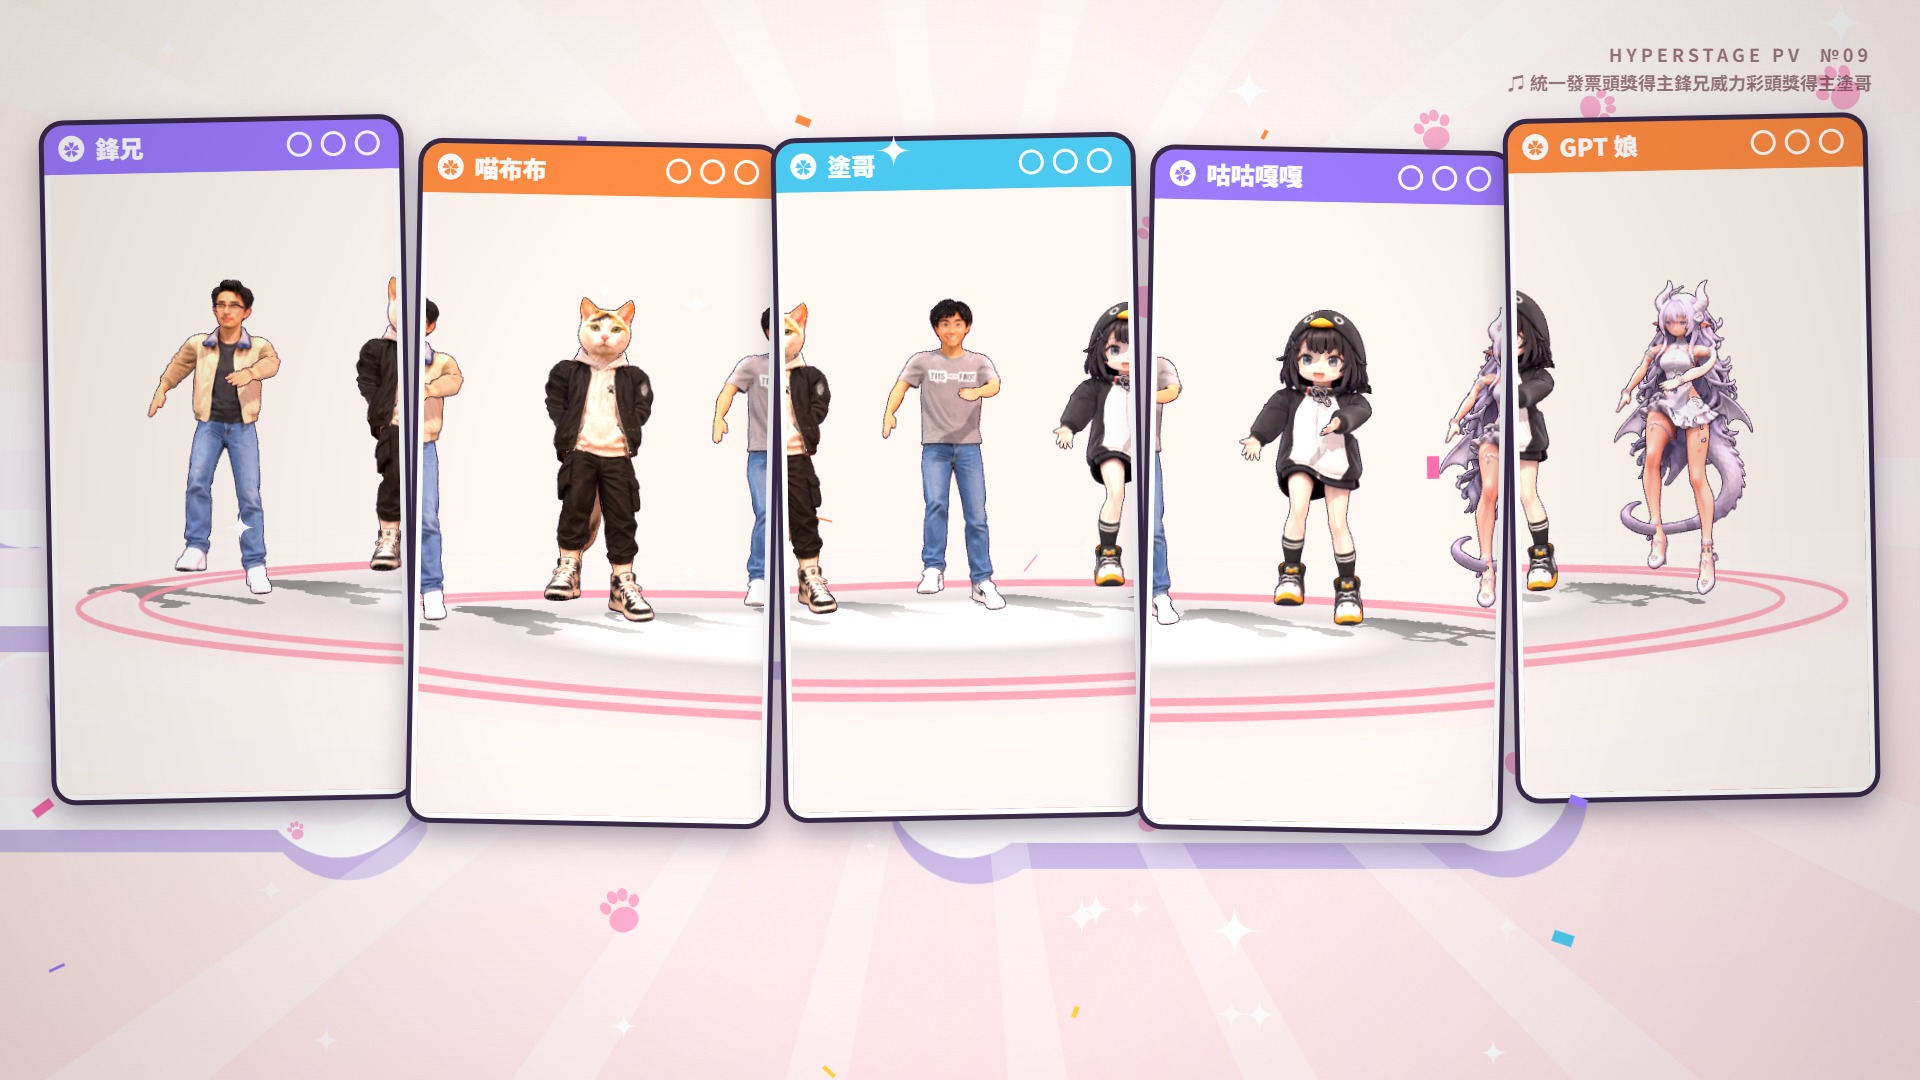
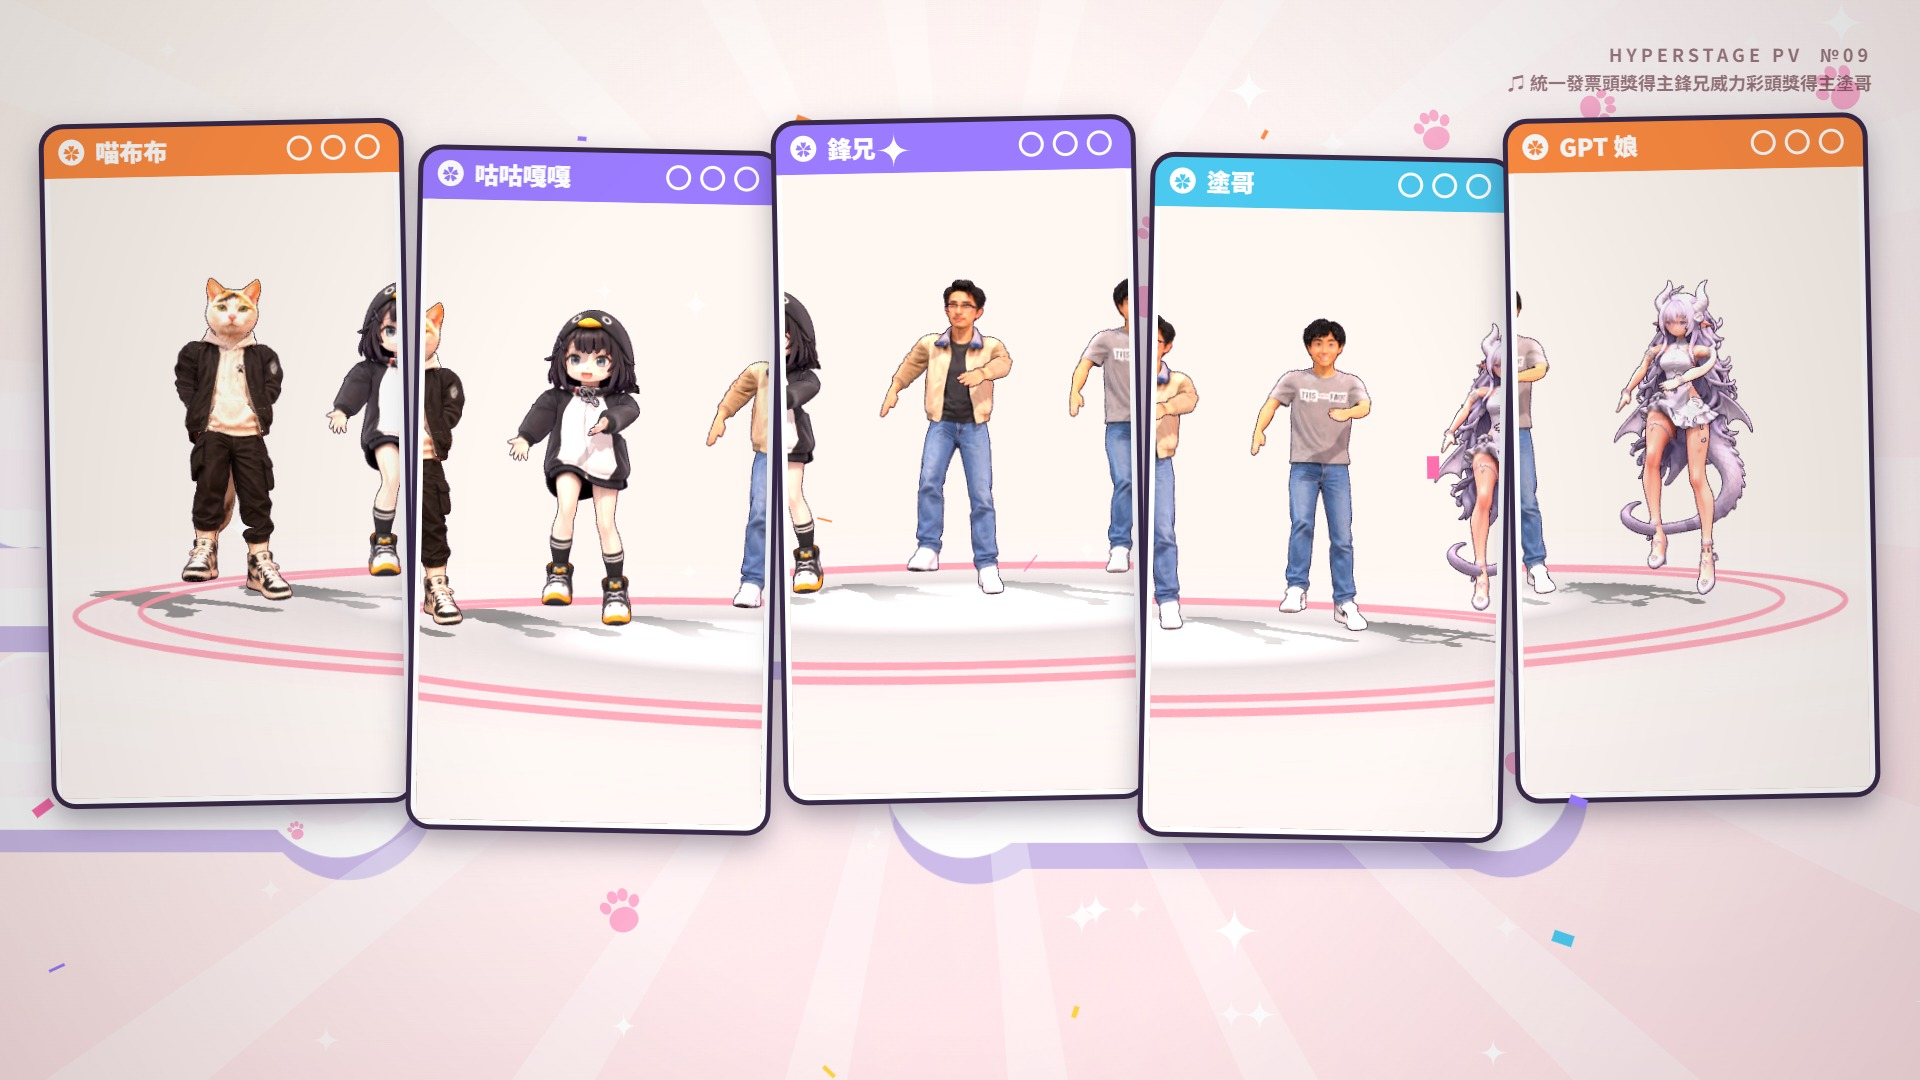
Center Feng with Tu beside him in the jackpot lineup

Changed region(s): [[0.0312, 0.2444, 0.8125, 0.6722], [0.0, 0.0917, 0.7812, 0.2139], [0.0312, 0.7333, 0.7812, 0.7944]]

diff --git a/src/pv/main.js b/src/pv/main.js
@@ -10,7 +10,7 @@ import * as THREE from 'three';
 import { createDancer } from '../dance.js';
 import { coupleCue, applyCouples } from '../couples.js';
 import { timedCue } from '../lrc.js';
-import { actorPose } from '../song-data.js';
+import { actorPose, stageOrder } from '../song-data.js';
 import { songs, songById } from '../songs.js';
 import { modelById, loadAsset, instantiateAsset } from '../models.js';
 import { createBackground, speedLines } from './bg.js';
@@ -454,8 +454,10 @@ function drawWindows(shot, t, look) {
     const gap = 22, w = (W - 112 - gap * (performers.length - 1)) / performers.length;
     return { x: 56 + i * (w + gap), y: 180 + (i % 2) * 20, w, h: 620, r: i % 2 ? .02 : -.02 };
   });
-  layout.forEach((rect, i) => {
-    const k = clamp((since - i * 0.12) / 0.45, 0, 1);
+  const order = stageOrder(performers.length);
+  layout.forEach((rect, slot) => {
+    const i = order[slot];
+    const k = clamp((since - slot * 0.12) / 0.45, 0, 1);
     const pop = k <= 0 ? 0 : 1 + 2.7 * Math.pow(k - 1, 3) + 1.7 * Math.pow(k - 1, 2);
     const out = smooth(leaving / 0.3);
     const scale = pop * out;

diff --git a/src/song-data.js b/src/song-data.js
@@ -21,11 +21,13 @@ export const cast=[
 ];
 export const castNames=cast.map(({name})=>name);
 export const castModelIds=cast.map(({modelId})=>modelId);
+// Five-person jackpot lineup, left to right: Bu Bu, Gugugaga, Feng, Tu, GPT.
+export const stageOrder=count=>count===5?[1,3,0,2,4]:Array.from({length:count},(_,i)=>i);
 export function actorPose(index,time,cue,count=4){const beat=time*Math.PI,hop=Math.abs(Math.sin(beat));let x=[-2.4,-.8,.8,2.4][index],z=0,y=0,ry=0,rz=0,scale=.78;const action=cue.chapterData.action;
  // A wider cast shares the stage in staggered rows without overlapping the two leads.
  if(count>4){
-  x=(index-(count-1)/2)*1.3;z=index%2?-.35:0;
-  if(action==='rally'||action==='dance'){x+=Math.sin(beat/2+index*.9)*.18;y=hop*.22;}
+  x=(stageOrder(count).indexOf(index)-(count-1)/2)*1.3;z=index%2?-.35:0;
+  if(action==='rally'||action==='dance'){if(index!==0)x+=Math.sin(beat/2+index*.9)*.18;y=hop*.22;}
   if(action==='jackpot')y=hop*(cue.line>=3?.3:.06);
   ry=Math.sin(beat/2+index)*.2;rz=Math.sin(beat+index*.6)*.05;
   return {x,y,z,ry,rz,scale};

diff --git a/tests/effects-songs.test.js b/tests/effects-songs.test.js
@@ -58,7 +58,11 @@ test('five-person jackpot cast stays finite, separated and inside the camera cle
         assert.ok(Object.values(pose).every(Number.isFinite));
         assert.ok(Math.abs(pose.x) + performerReach(pose.scale) + cameraSway < clearance);
       }
-      for (let i = 1; i < poses.length; i++) assert.ok(poses[i].x - poses[i - 1].x > .9);
+      const leftToRight = poses.map((pose, i) => ({ ...pose, i })).sort((a,b) => a.x-b.x);
+      assert.deepEqual(leftToRight.map(p => p.i), [1,3,0,2,4]);
+      assert.equal(poses[0].x, 0, 'Feng stays at center');
+      assert.equal(poses[0].z, poses[2].z, 'Tu stands beside Feng in the same row');
+      for (let i = 1; i < leftToRight.length; i++) assert.ok(leftToRight[i].x - leftToRight[i-1].x > .9);
     }
   }
 });

diff --git a/README.md b/README.md
@@ -89,7 +89,7 @@ npm run dev
 
 重新匯入：`python3 tools/import-effects-songs.py <Effects 路徑>`，會複製音檔到 `public/audio/` 並產生 `src/effects-songs.js`；分幕標題與角色在腳本內編寫。
 
-《統一發票頭獎得主鋒兄威力彩頭獎得主塗哥》的中文、英文、日文、粵文版本由鋒兄、喵布布、塗哥、咕咕嘎嘎、GPT 娘五位角色演出。GPT 娘模型來自提供的 `gptmusume-pose.fbx`，含 33 根骨骼與蒙皮；PV 與歌詞劇場皆支援五人站位、骨架編舞和角色切換。PV 的角色視窗與謝幕名單只顯示角色名稱，不加檔名後綴。既有 Release MP4 為先前四人版本。
+《統一發票頭獎得主鋒兄威力彩頭獎得主塗哥》的中文、英文、日文、粵文版本由鋒兄、喵布布、塗哥、咕咕嘎嘎、GPT 娘五位角色演出。舞台與角色視窗由左至右為喵布布、咕咕嘎嘎、鋒兄、塗哥、GPT 娘：鋒兄固定站中央 C 位，塗哥站其右側相鄰位置。GPT 娘模型來自提供的 `gptmusume-pose.fbx`，含 33 根骨骼與蒙皮；PV 與歌詞劇場皆支援五人站位、骨架編舞和角色切換。PV 的角色視窗與謝幕名單只顯示角色名稱，不加檔名後綴。既有 Release MP4 為先前四人版本。
 
 ## PV（每首歌的音樂影片）
 
